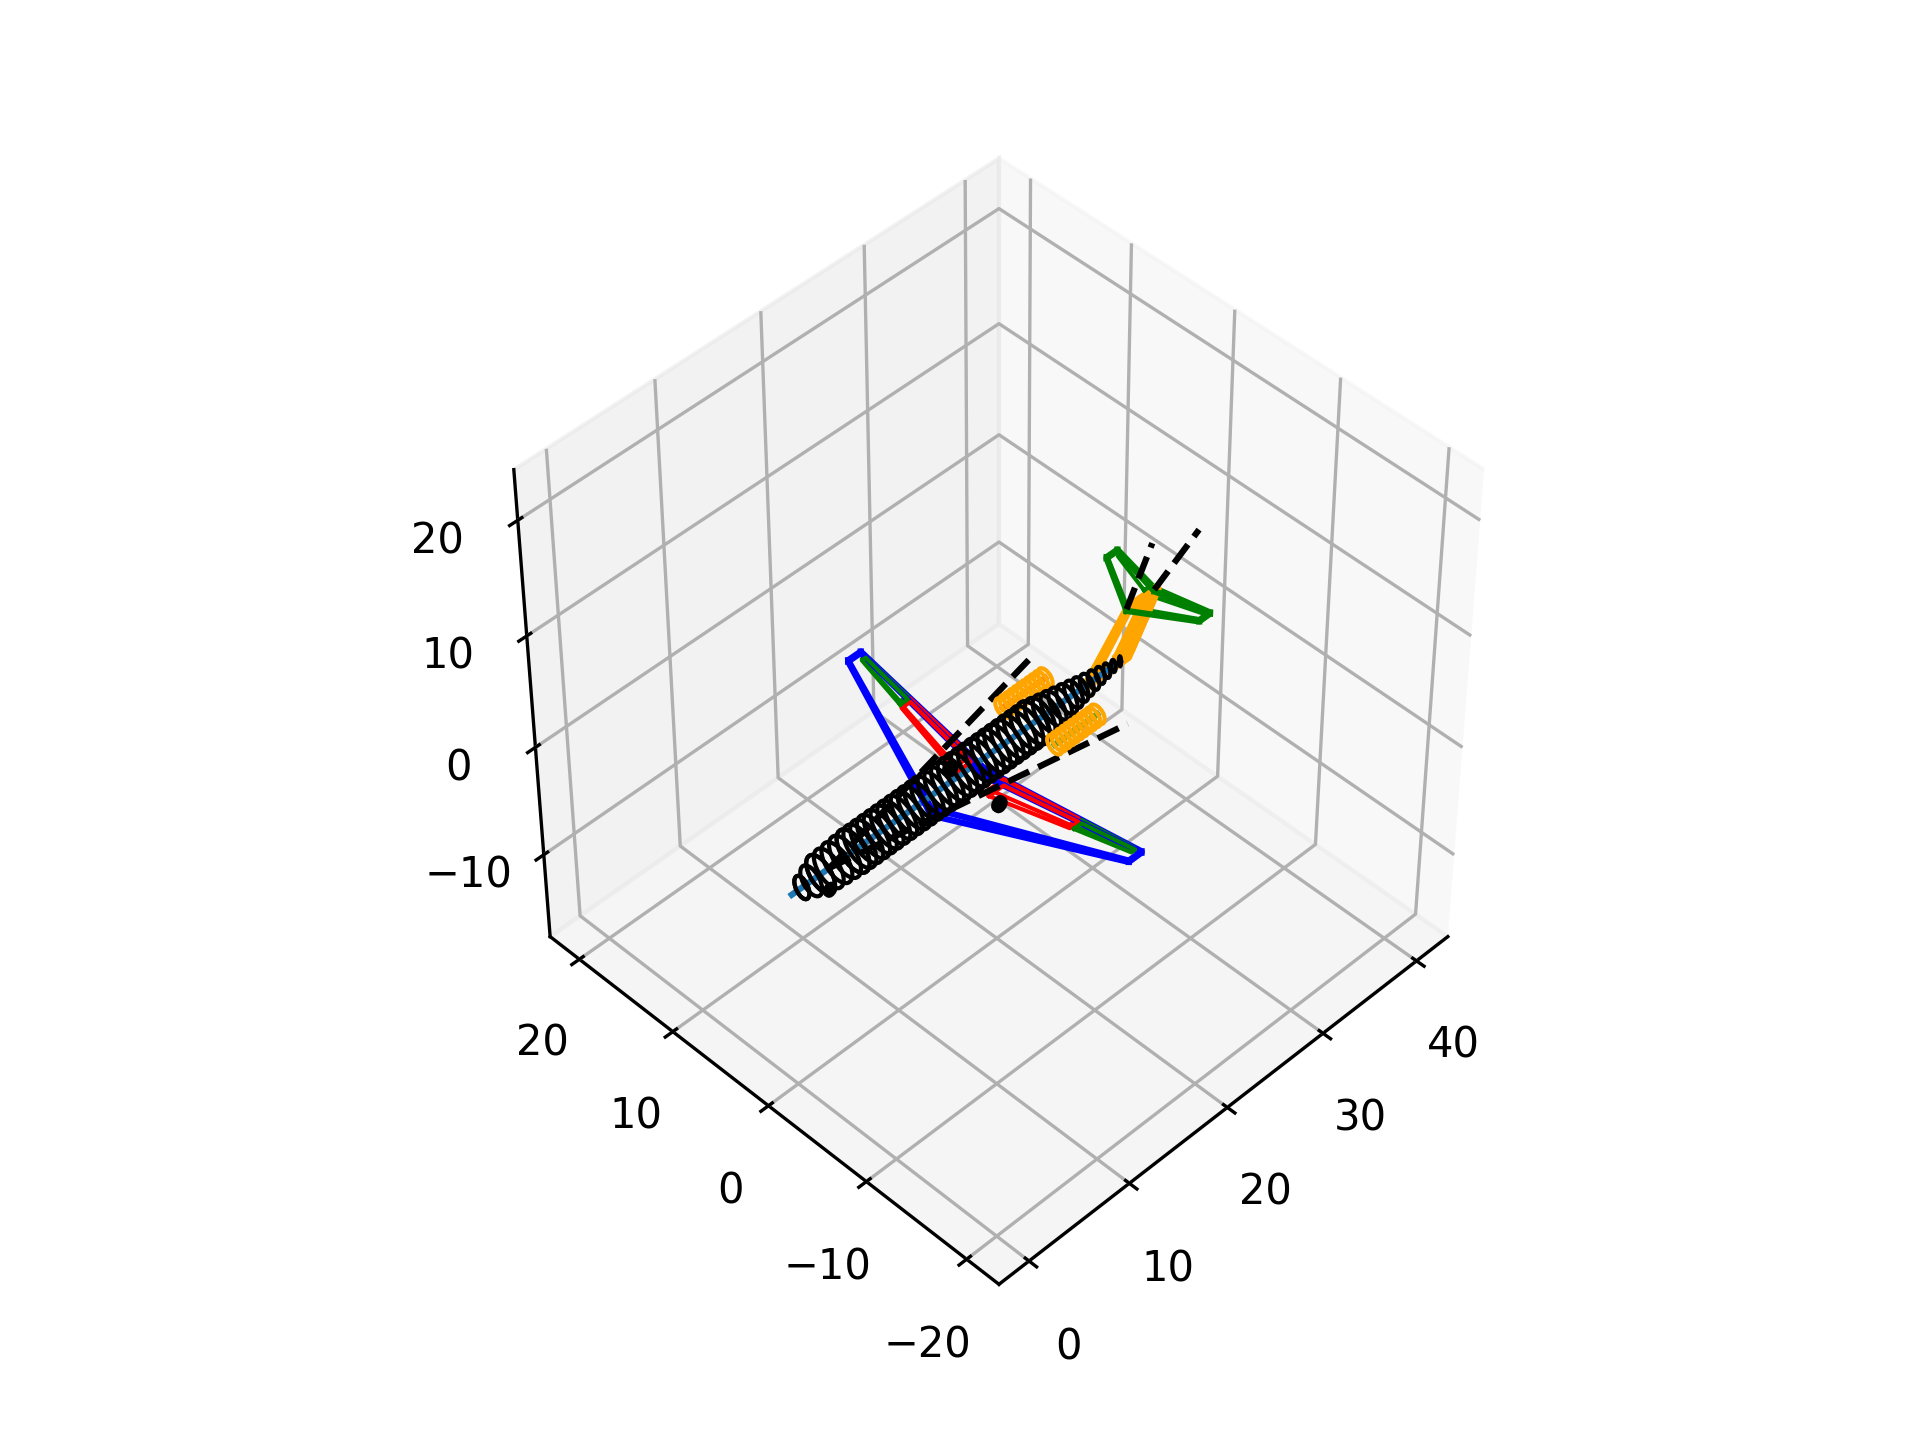
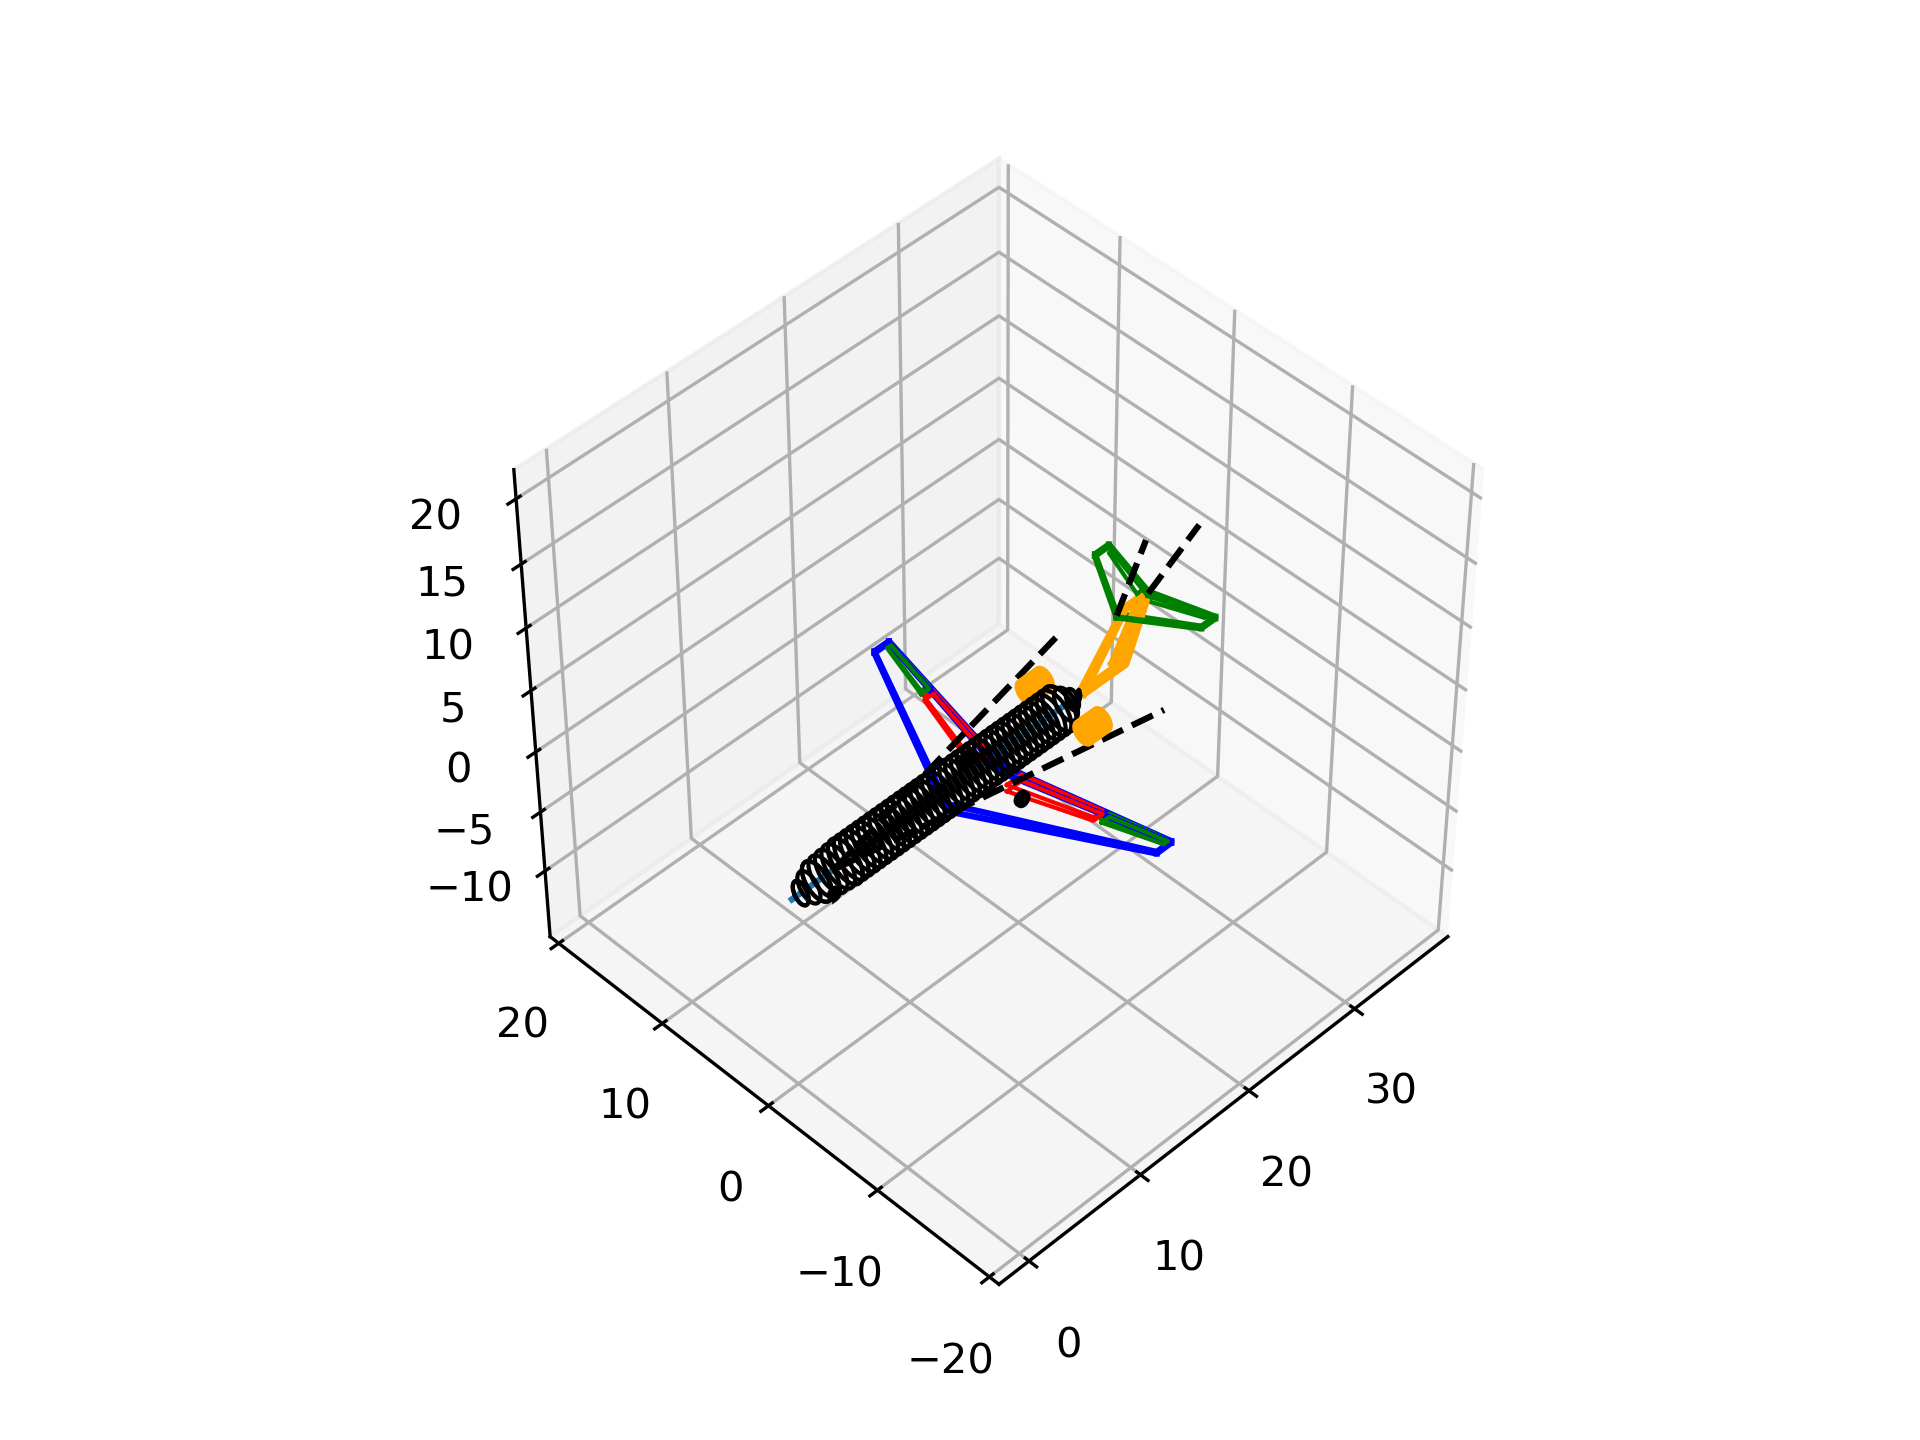
MUDANÇAS NOS CÓDIGO CARAI
Adicionei um elif na função standard_airplane do script Design Tool para incluir o AviaoDoXerife com **ALGUNS** parâmetros nossos (outros são do fokker 100).

Criei um AviaoDoXerife.py pra controlar o que dos parâmetros foram calculados e o que a gente deixou como sendo do Fokker 100 (tudo que tiver comentando como "NÃO SEI O QUE É") significa que não alteramos porra nenhuma

diff --git a/designTool.py b/designTool.py
@@ -3151,5 +3151,91 @@ def standard_airplane(name="fokker100"):
             "rho_f": 804,  # Fuel density kg/m3 (This is Jet A-1)
             #'W0_guess' : 24100*gravity # Guess for MTOW
         }
+        
+    elif name == "AviaoDoXerife":
+        
+        airplane = {
+            "type": "transport",  # Can be 'transport', 'fighter', or 'general'
+            "S_w": 78.94,  # Wing area [m2]
+            "AR_w": 8.2,  # Wing aspect ratio
+            "taper_w": 0.272,  # Wing taper ratio
+            "sweep_w": 0.380133,  # Wing sweep [rad]
+            "dihedral_w": 0.060272,  # Wing dihedral [rad]
+            "xr_w": 13.5,  # Longitudinal position of the wing (with respect to the fuselage nose) [m]
+            "zr_w": -1.5,  # Vertical position of the wing (with respect to the fuselage nose) [m]
+            "tcr_w": 0.123,  # t/c of the root section of the wing
+            "tct_w": 0.096,  # t/c of the tip section of the wing
+            "Cht": 1.017,  # Horizontal tail volume coefficient
+            "Lc_h": 1.017,  # Non-dimensional lever of the horizontal tail (lever/wing_mac)
+            "AR_h": 4.517,  # HT aspect ratio
+            "taper_h": 0.445,  # HT taper ratio
+            "sweep_h": 0.477871,  # HT sweep [rad]
+            "dihedral_h": 0.043517,  # HT dihedral [rad]
+            "zr_h": 4.359,  # Vertical position of the HT [m]
+            "tcr_h": 0.1,  # t/c of the root section of the HT
+            "tct_h": 0.1,  # t/c of the tip section of the HT
+            "eta_h": 1.0,  # Dynamic pressure factor of the HT
+            "Cvt": 0.077,  # Vertical tail volume coefficient
+            "Lb_v":0.45,  # Non-dimensional lever of the vertical tail (lever/wing_span)
+            "AR_v": 1.474,  # VT aspect ratio
+            "taper_v": 1.474,  # VT taper ratio
+            "sweep_v": 0.654266,  # VT sweep [rad]
+            "zr_v": 0.0,  # Vertical position of the VT [m]
+            "tcr_v": 0.1,  # t/c of the root section of the VT
+            "tct_v": 0.1,  # t/c of the tip section of the VT
+            "L_f": 25.45,  # Fuselage length [m]
+            "D_f": 3.13,  # Fuselage diameter [m]
+            "x_n": 23.2,  # Longitudinal position of the nacelle frontal face [m]
+            "y_n": 2.6,  # Lateral position of the nacelle centerline [m]
+            "z_n": 0.0,  # Vertical position of the nacelle centerline [m]
+            "L_n": 1.70,  # Nacelle length [m]
+            "D_n": 1.6,  # Nacelle diameter [m]
+            "n_engines": 2,  # Number of engines
+            "n_engines_under_wing": 0,  # Number of engines installed under the wing
+            "engine": {
+                "model": "Howe turbofan",  # Check engineTSFC function for options
+                "BPR": 3.04,  # Engine bypass ratio
+                "Cbase": 0.57 / 3600,
+            },
+            "x_nlg": 3.6,  # Longitudinal position of the nose landing gear [m]
+            "x_mlg": 17.8,  # Longitudinal position of the main landing gear [m]
+            "y_mlg": 2.47,  # Lateral position of the main landing gear [m]
+            "z_lg": -2.0,  # Vertical position of the landing gear [m]
+            "x_tailstrike": 23.68,  # Longitudinal position of critical tailstrike point [m]
+            "z_tailstrike": -0.84,  # Vertical position of critical tailstrike point [m]
+            "c_tank_c_w": 0.4,  # Fraction of the wing chord occupied by the fuel tank
+            "x_tank_c_w": 0.2,  # Fraction of the wing chord where fuel tank starts
+            "clmax_w": 1.5,  # Maximum lift coefficient of wing airfoil
+            "flap_type": "double slotted",  # Flap type
+            "c_flap_c_wing": 0.30,  # Fraction of the wing chord occupied by flaps
+            "b_flap_b_wing": 0.60,  # Fraction of the wing span occupied by flaps (including fuselage portion)
+            "slat_type": None,  # Slat type
+            "c_slat_c_wing": 0.00,  # Fraction of the wing chord occupied by slats
+            "b_slat_b_wing": 0.00,  # Fraction of the wing span occupied by slats
+            "c_ail_c_wing": 0.27,  # Fraction of the wing chord occupied by aileron
+            "b_ail_b_wing": 0.34,  # Fraction of the wing span occupied by aileron
+            "h_ground": 35.0
+            * ft2m,  # Distance to the ground for ground effect computation [m]
+            "k_exc_drag": 0.03,  # Excrescence drag factor
+            "altitude_takeoff": 0.0,  # Altitude for takeoff computation [m]
+            "distance_takeoff": 1330.0,  # Required takeoff distance [m]
+            "altitude_landing": 0.0,  # Altitude for landing computation [m]
+            "distance_landing": 1503.0,  # Required landing distance [m] (The actual Fokker100 distance is 1350 m but it is very restrictive compared to the historical regression. Therefore I kept the same TO distance since the aircraft should takeoff and land at the same runway)
+            "MLW_frac": 38300 / 41500,  # Max Landing Weight / Max Takeoff Weight
+            "altitude_cruise": 35000 * ft2m,  # Cruise altitude [m]
+            "Mach_cruise": 0.79,  # Cruise Mach number
+            "range_cruise": 1200 * nm2m,  # Cruise range [m]
+            "loiter_time": 45 * 60,  # Loiter time [s]
+            "altitude_altcruise": 4572,  # Alternative cruise altitude [m]
+            "Mach_altcruise": 0.4,  # Alternative cruise Mach number
+            "range_altcruise": 200 * nm2m,  # Alternative cruise range [m]
+            "W_payload": 107 * 91 * gravity,  # Payload weight [N]
+            "xcg_payload": 14.4,  # Longitudinal position of the Payload center of gravity [m]
+            "W_crew": 5 * 91 * gravity,  # Crew weight [N]
+            "xcg_crew": 2.5,  # Longitudinal position of the Crew center of gravity [m]
+            "rho_f": 804,  # Fuel density kg/m3 (This is Jet A-1)
+            #'W0_guess' : 40000*gravity # Guess for MTOW
+        
+        }
 
     return airplane

diff --git a/AviaoDoXerife.py b/AviaoDoXerife.py
@@ -1,0 +1,95 @@
+# Sample script on how to use designTool.
+# Remember to save this script in the same directory as designTool.py
+
+# IMPORTS
+import designTool as dt
+import numpy as np
+import pprint
+
+# Inputs of the Geometry Module
+
+airplane = {
+    # "AR_h": 4.517,
+    # "AR_v": 1.474,
+    # "AR_w": 8.2,
+    # "Cht": 1.017,
+    # "Cvt": 0.077,
+    # "D_f": 3.13,
+    # "D_n": 1.6,
+    # "L_f": 25.45,
+    # "L_n": 1.70,
+    # "Lb_v": 0.45,
+    # "Lc_h": 1.017,
+    # "MLW_frac": 0.9228915662650602,
+    # "Mach_altcruise": 0.4,
+    # "Mach_cruise": 0.79, 
+    # "S_w": 78.94,
+    # "W_crew": 4463.55, NÃO SEI O QUE É
+    # "W_payload": 95519.97, NÃO SEI O QUE É
+    # "altitude_altcruise": 4572, NÃO SEI O QUE É
+    # "altitude_cruise": 10058.4,
+    # "altitude_landing": 0.0,NÃO SEI O QUE É
+    # "altitude_takeoff": 0.0,NÃO SEI O QUE É
+    # "b_ail_b_wing": 0.34,NÃO SEI O QUE É
+    # "b_flap_b_wing": 0.6,NÃO SEI O QUE É
+    # "b_slat_b_wing": 0.0,NÃO SEI O QUE É
+    # "c_ail_c_wing": 0.27,NÃO SEI O QUE É
+    # "c_flap_c_wing": 0.3,NÃO SEI O QUE É
+    # "c_slat_c_wing": 0.0,NÃO SEI O QUE É
+    # "c_tank_c_w": 0.4,NÃO SEI O QUE É
+    # "clmax_w": 1.5, #ESCOLHEMOS 'NO FLAP'
+    # "dihedral_h": 0.043517,
+    # "dihedral_w": 0.060272,
+    # "distance_landing": 1503.0,
+    # "distance_takeoff": 1330.0,
+    # "engine": {"BPR": 3.04, "Cbase": 0.00015833333333333332, "model": "Howe turbofan"}, NÃO SEI O QUE É
+    # "eta_h": 1.0, NÃO SEI O QUE É
+    # "flap_type": "double slotted", NÃO SEI O QUE É
+    # "h_ground": 10.668000000000001,NÃO SEI O QUE É
+    # "k_exc_drag": 0.03,NÃO SEI O QUE É
+    # "loiter_time": 2700,NÃO SEI O QUE É
+    # "n_engines": 2,
+    # "n_engines_under_wing": 0,
+    # "range_altcruise": 370400.0,NÃO SEI O QUE É
+    # "range_cruise": 2222400.0,NÃO SEI O QUE É
+    # "rho_f": 804,NÃO SEI O QUE É
+    # "slat_type": None,NÃO SEI O QUE É
+    # "sweep_h": 0.477871,
+    # "sweep_v": 0.654266,
+    # "sweep_w": 0.380133,
+    # "taper_h": 0.445,
+    # "taper_v": 1.474,
+    # "taper_w": 0.272,
+    # "tcr_h": 0.1, NÃO SEI O QUE É
+    # "tcr_v": 0.1, NÃO SEI O QUE É
+    # "tcr_w": 0.123, NÃO SEI O QUE É
+    # "tct_h": 0.1, NÃO SEI O QUE É
+    # "tct_v": 0.1, NÃO SEI O QUE É
+    # "tct_w": 0.096, NÃO SEI O QUE É
+    # "type": "transport",NÃO SEI O QUE É
+    # "x_mlg": 17.8, NÃO SEI O QUE É
+    # "x_n": 23.2, NÃO SEI O QUE É
+    # "x_nlg": 3.6, NÃO SEI O QUE É
+    # "x_tailstrike": 23.68, NÃO SEI O QUE É
+    # "x_tank_c_w": 0.2, NÃO SEI O QUE É
+    # "xcg_crew": 2.5,NÃO SEI O QUE É
+    # "xcg_payload": 14.4,NÃO SEI O QUE É
+    # "xr_w": 13.5, NÃO SEI O QUE É
+    # "y_mlg": 2.47, NÃO SEI O QUE É
+    # "y_n": 2.6, NÃO SEI O QUE É
+    # "z_lg": -2.0, NÃO SEI O QUE É
+    # "z_n": 0.0, NÃO SEI O QUE É
+    # "z_tailstrike": -0.84, NÃO SEI O QUE É
+    # "zr_h": 4.359, NÃO SEI O QUE É
+    # "zr_v": 0.0, NÃO SEI O QUE É
+    # "zr_w": -1.5, NÃO SEI O QUE É
+}
+
+# Execute the geometry function
+dt.geometry(airplane)
+
+# Print updated dictionary
+print("airplane = " + pprint.pformat(airplane))
+
+# Generate 3D plot
+dt.plot3d(airplane)
